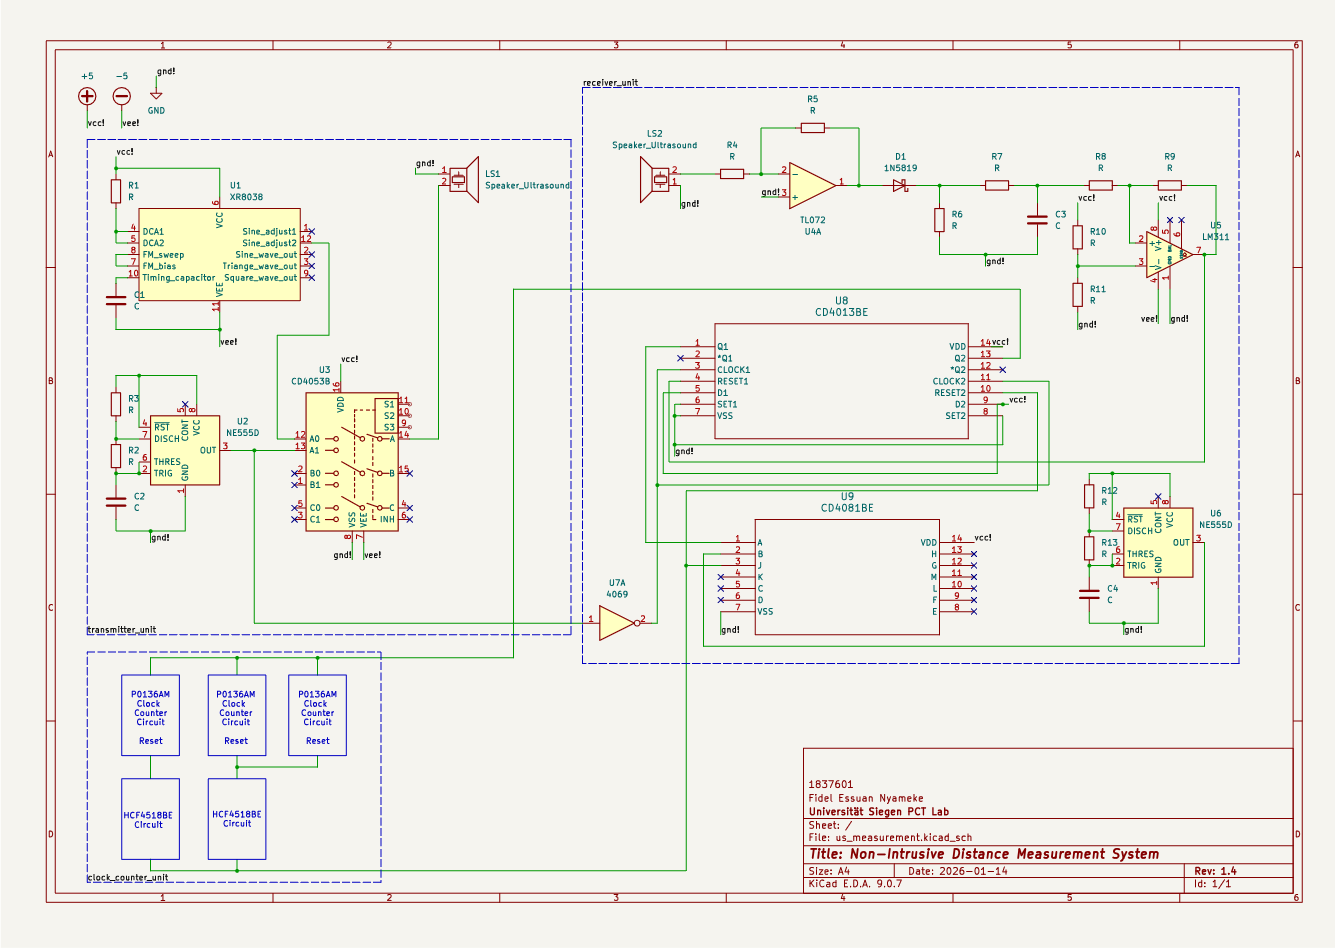
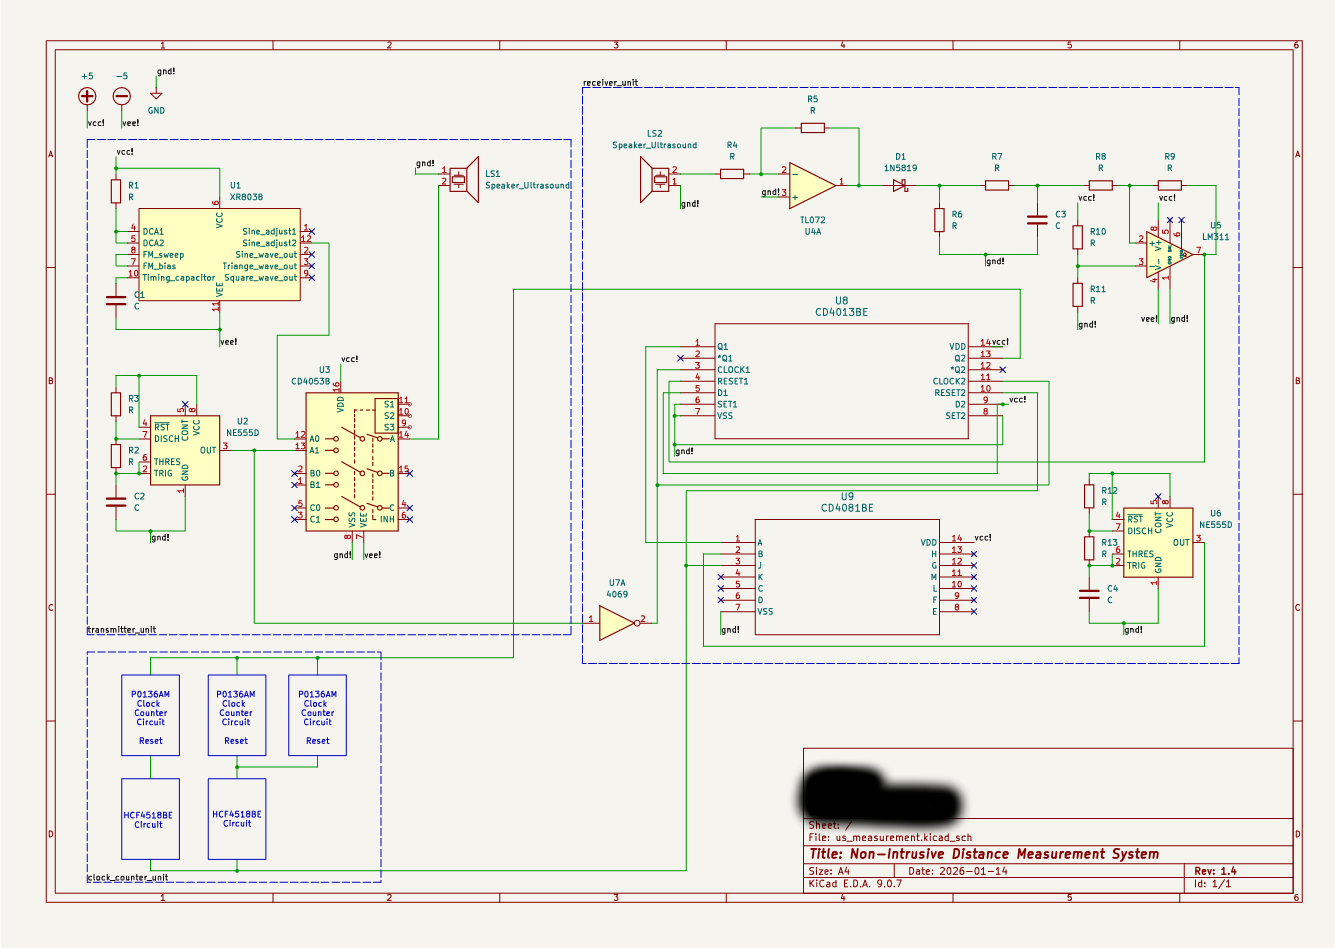
Update project image asset

Changed region(s): [[0.5835, 0.7937, 0.7371, 0.8853]]

diff --git a/_sass/moonwalk.scss b/_sass/moonwalk.scss
@@ -56,6 +56,25 @@ td:first-child {
   width: 38%;
 }
 
+p + table,
+blockquote + table,
+ul + table,
+ol + table {
+  margin-top: 1rem;
+}
+
+/* More compact device parameter tables */
+body .w table {
+  width: min(100%, 420px);
+  table-layout: fixed;
+  margin: 0 auto;
+}
+
+body .w table th:first-child,
+body .w table td:first-child {
+  width: 45%;
+}
+
 div.highlighter-rouge pre code, pre code.highlighter-rouge {
   display: block;
   overflow-x: auto;
